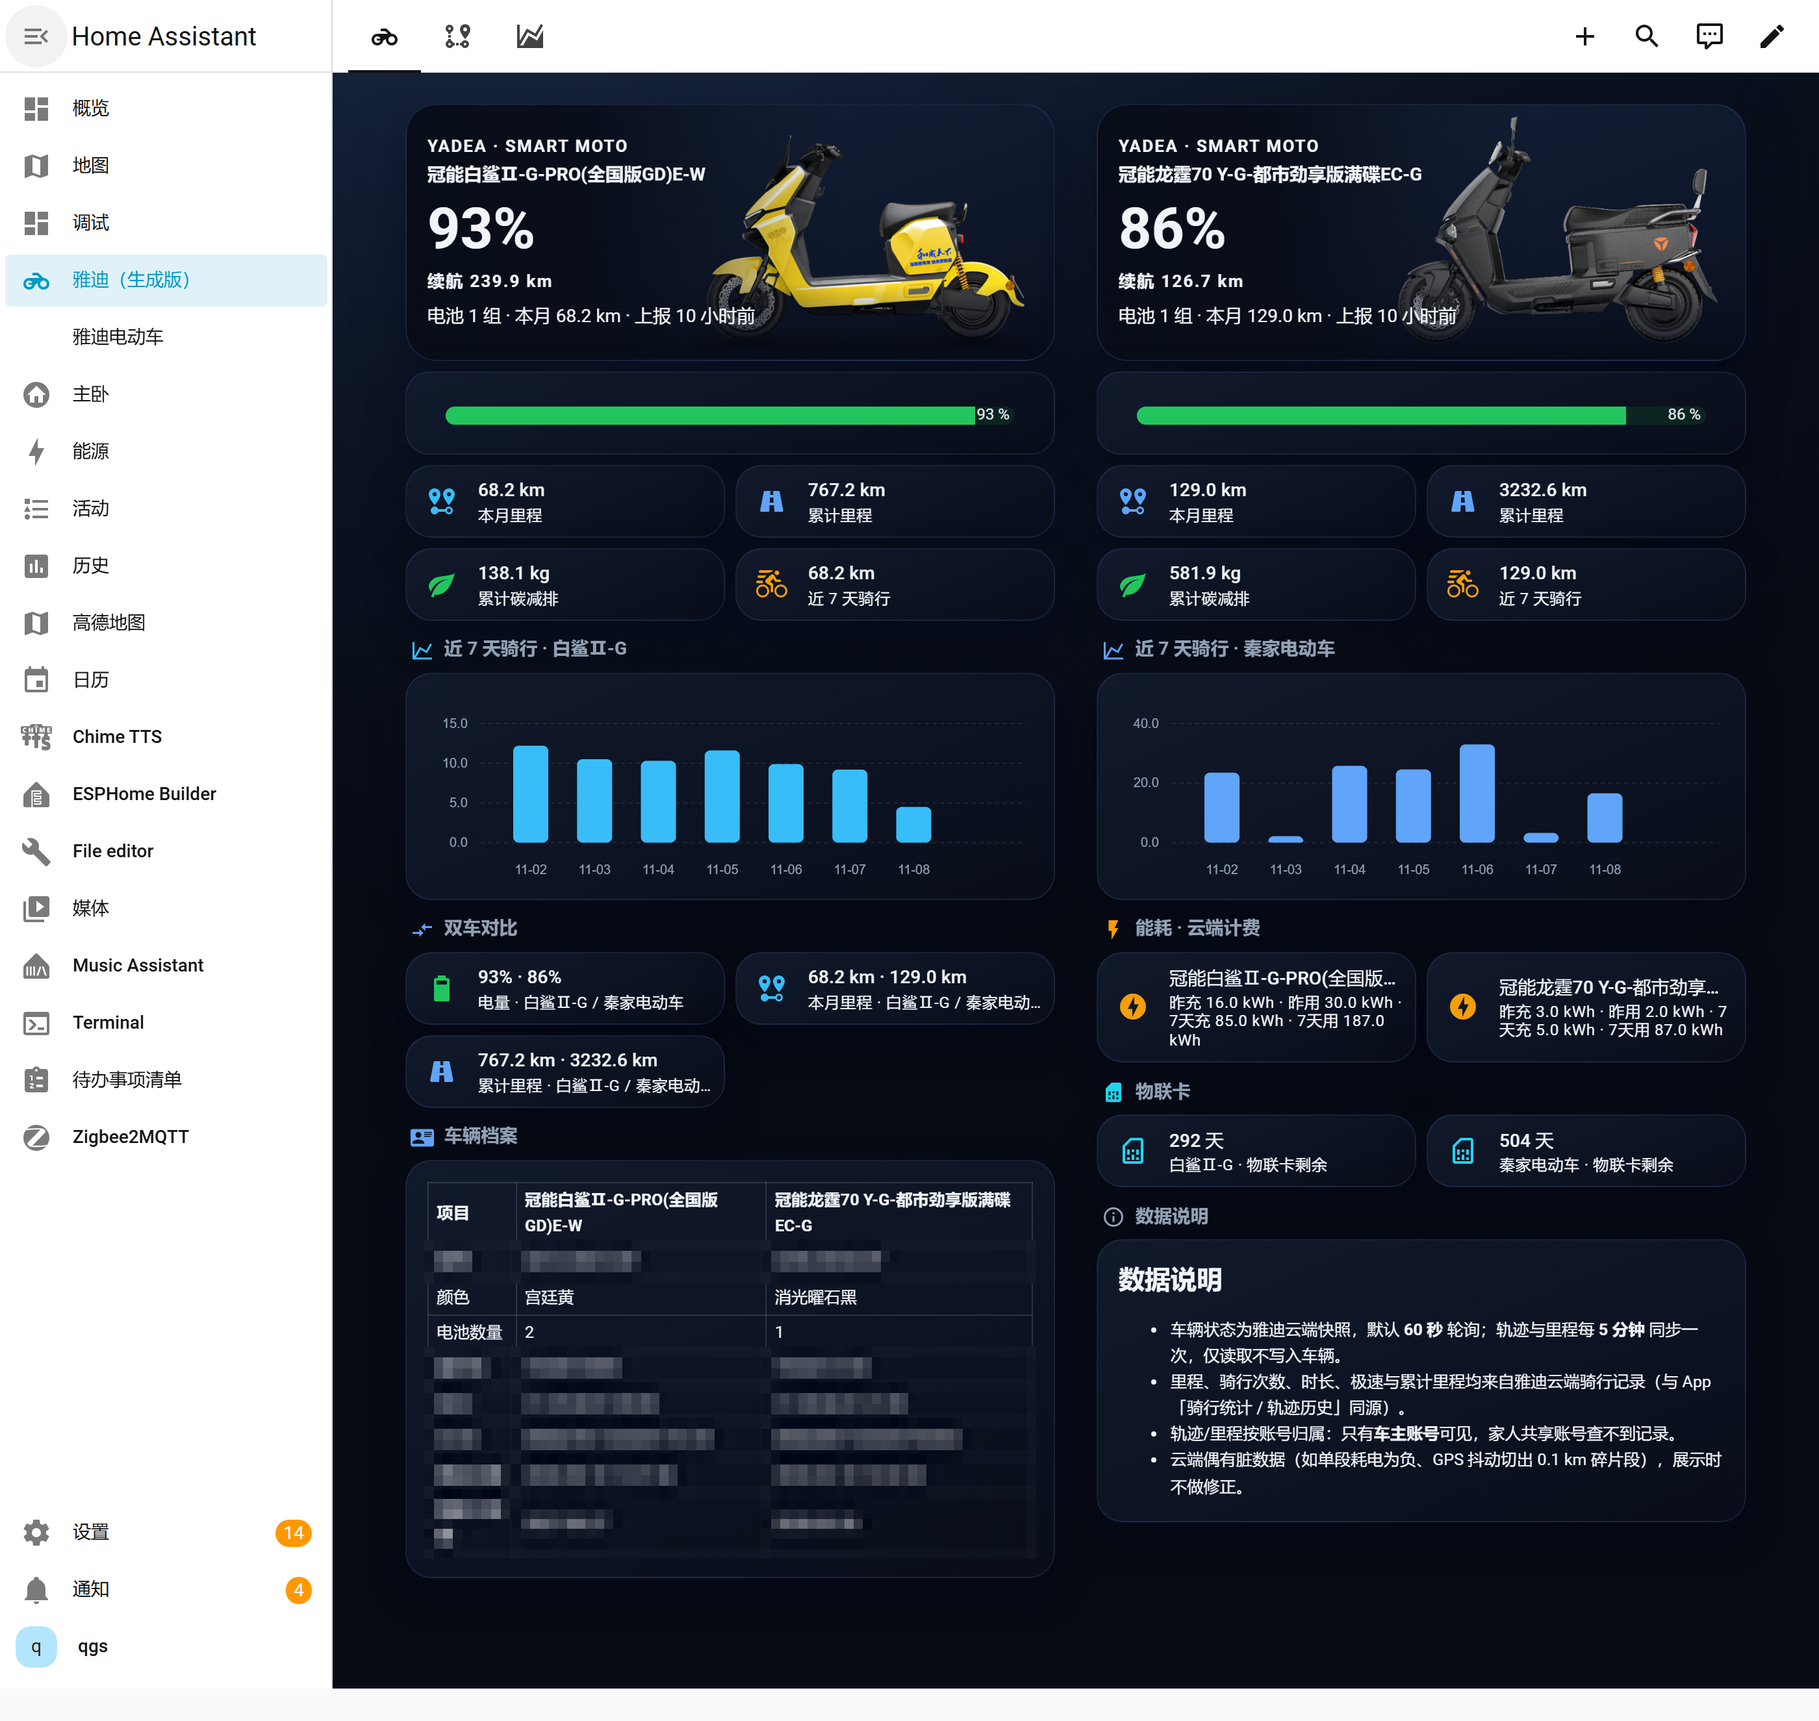
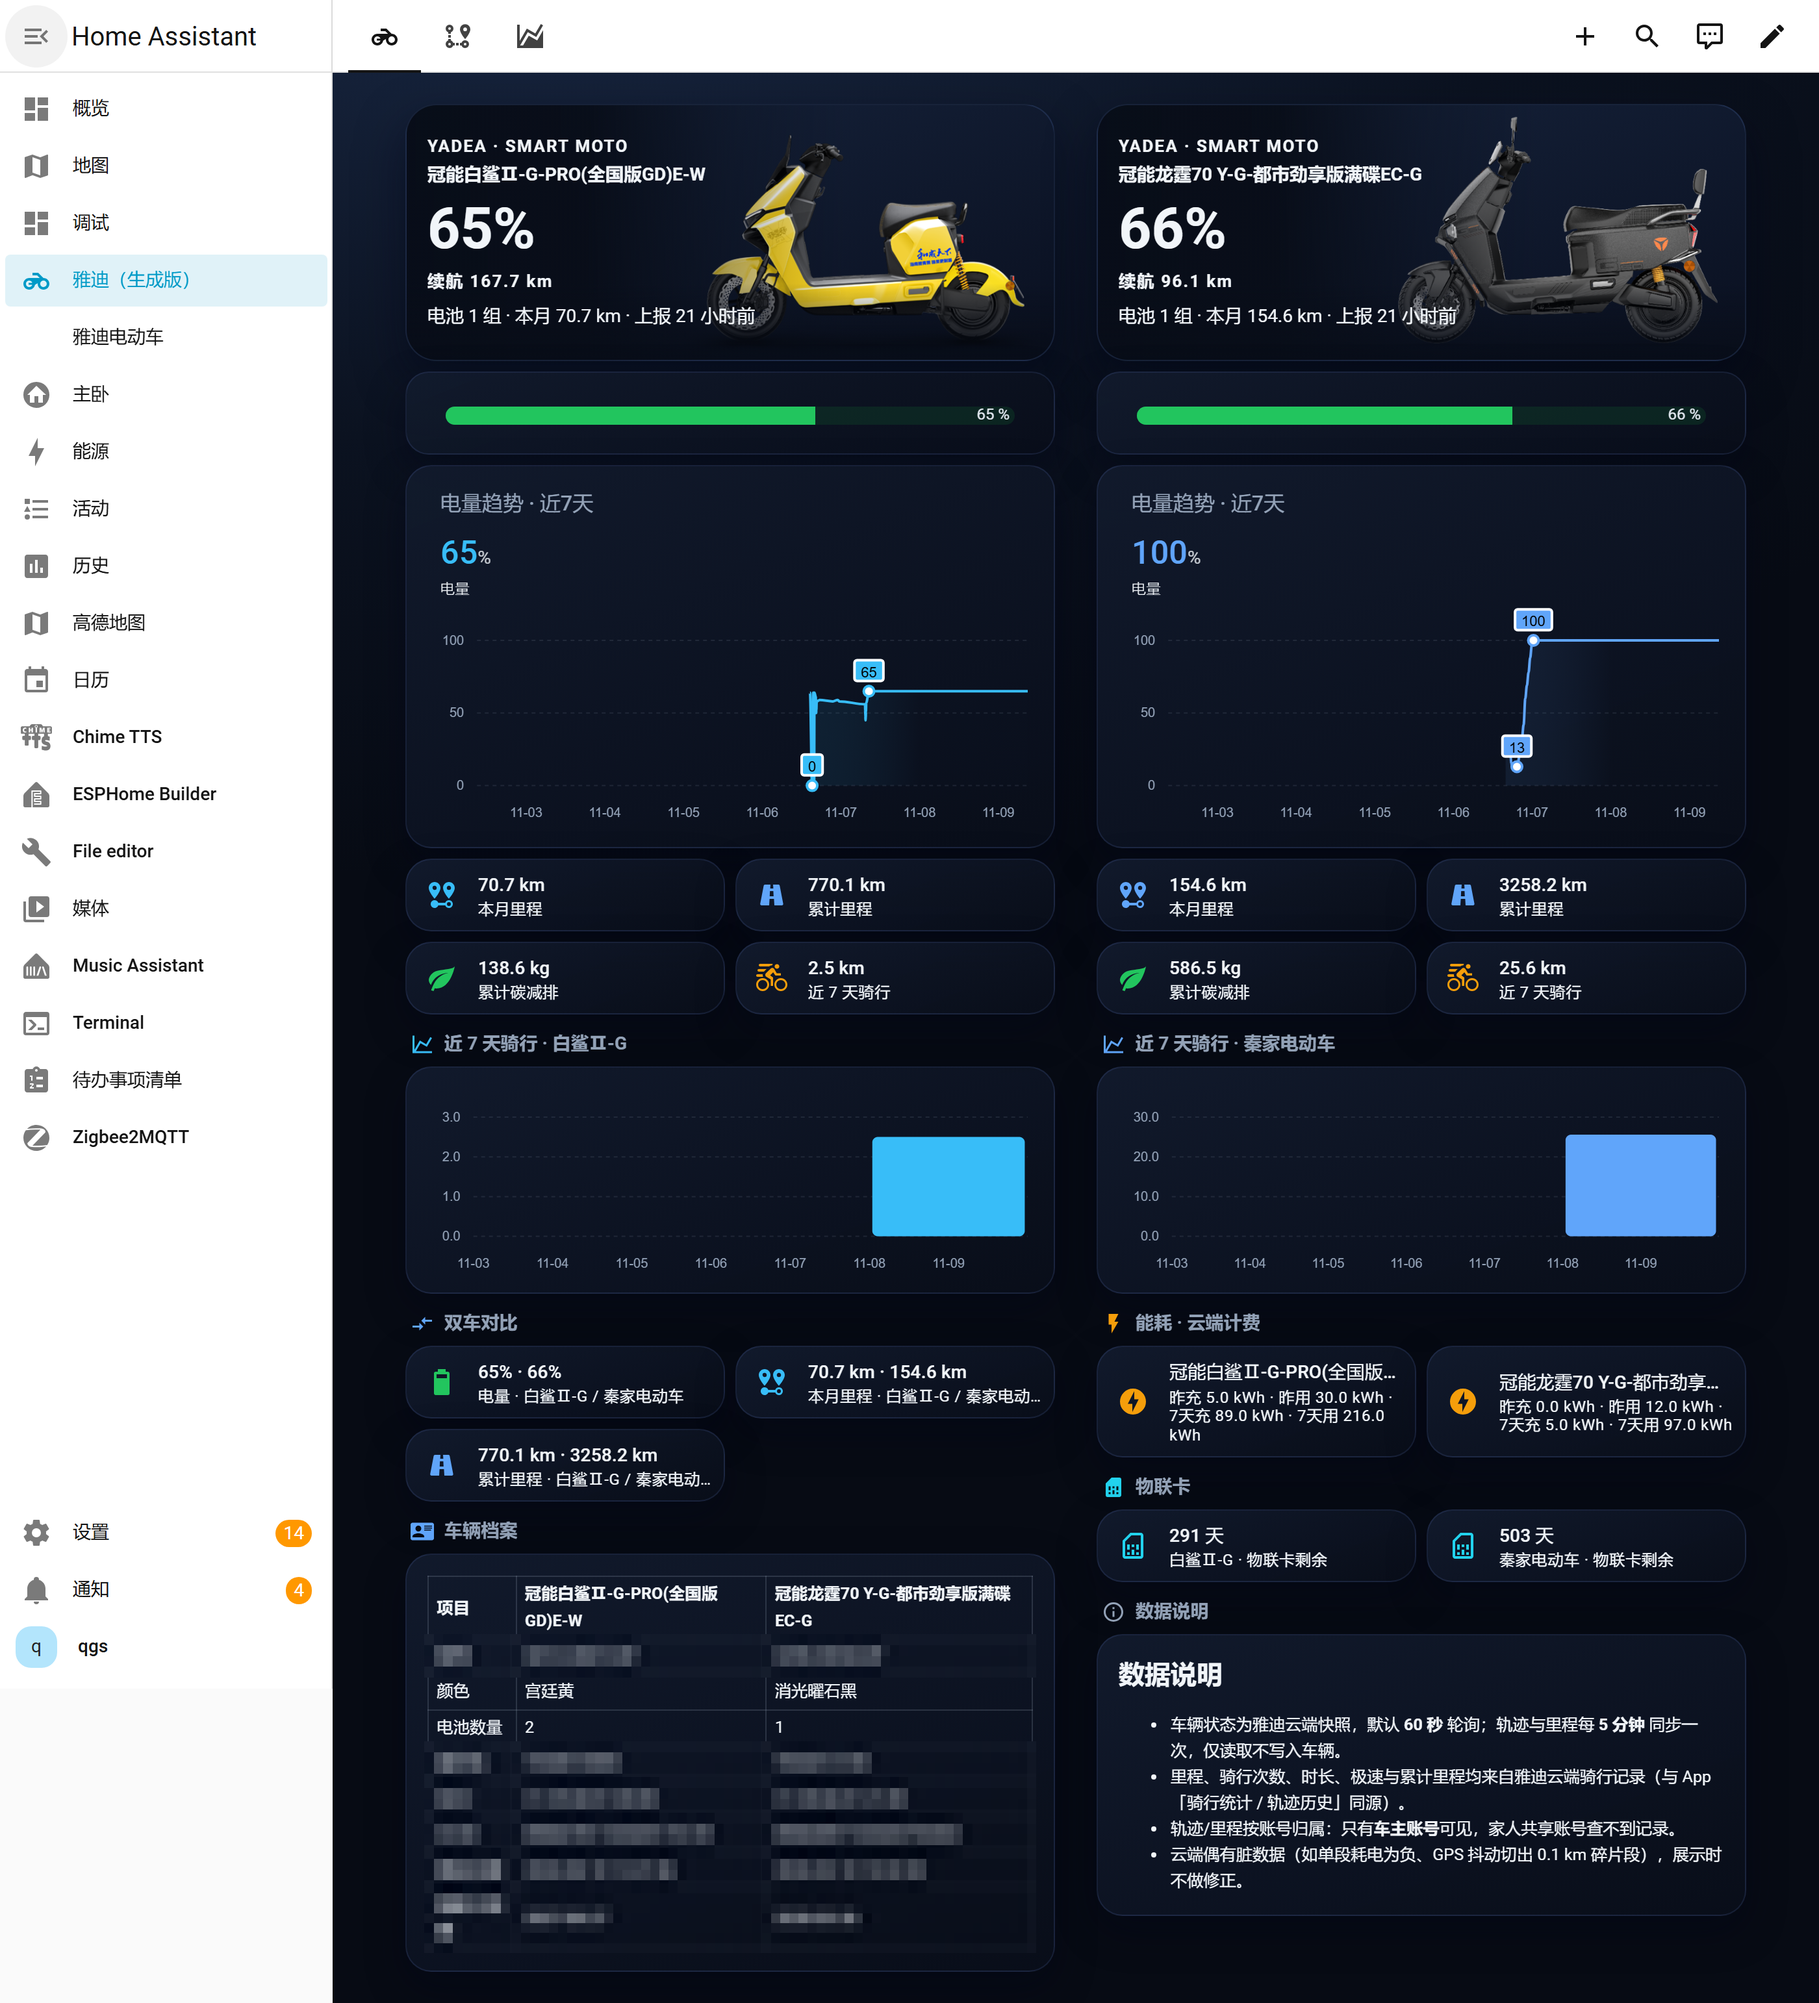
v1.0.5: 总览页新增「电量趋势 · 近7天」卡
- 每车一列在电量长条图后新增电量趋势卡：标题行内显示当前电量、
  面积渐变曲线、图上 Min/Max 极值标注（badge 样式）
- 策略生成时并行拉取各车电量历史（7→5→3→2→1 天起点逐级回退，
  规避 HA 2026.11 对早于 recorder 库内最早记录起点返回空的行为），
  数据点内嵌 data_generator，图表不依赖浏览器端历史接口
- 曲线颜色跟随车辆主题色；y 轴固定 0-100；无数据时显示累计提示
- 兼容性修正：apexcharts-card 2.2.3 的 header 不支持 title_align，
  yaxis labels.formatter 会导致整图不渲染（已移除）

diff --git a/dist/yadea-dashboard.js b/dist/yadea-dashboard.js
@@ -3,7 +3,7 @@
  *
  * 安装后无需手写 YAML：在「添加仪表盘 → 社区仪表盘」里选择本策略，
  * 会自动发现家中所有雅迪车辆（雅迪集成 v2.0.0+）并生成三套视图：
- *   1. 总览     —— 车辆实拍图头卡、电量长条图、本月/累计/减碳/近 7 天统计、
+ *   1. 总览     —— 车辆实拍图头卡、电量长条图、电量趋势(近7天)、本月/累计/减碳/近 7 天统计、
  *                  近 7 天柱状图、双车对比、能耗·云端计费、物联网卡、车辆档案对照、数据说明
  *   2. 骑行轨迹 —— 今日骑行大数字、近 14 天柱状图、最近路线、今日分段明细
  *   3. 能耗档案 —— 充电/耗电统计、车辆档案
@@ -13,7 +13,7 @@
  * 生成后可在仪表盘右上角「接管控制」转为可手动编辑的普通仪表盘。
  */
 
-const VERSION = "1.0.4";
+const VERSION = "1.0.5";
 const ACCENTS = ["#38bdf8", "#60a5fa", "#a78bfa", "#34d399", "#f472b6", "#facc15"];
 
 const BG =
@@ -466,6 +466,92 @@ function batteryBar(hass, v, hasBar) {
   };
 }
 
+/** 电量历史拉取：7 天起点可能早于 recorder 库内最早记录（HA 2026.11 对此直接返回空），
+ *  故逐级回退 7→5→3→2→1 天，取第一批有数据的窗口。 */
+async function fetchBatteryTrendPoints(hass, entityId) {
+  for (const days of [7, 5, 3, 2, 1]) {
+    try {
+      const start = new Date(Date.now() - days * 86400000).toISOString();
+      const res = await hass.callApi(
+        "GET",
+        `history/period/${start}?filter_entity_id=${entityId}&minimal_response&significant_changes_only=0`
+      );
+      const rows = (Array.isArray(res) && res[0]) || [];
+      const points = [];
+      for (const p of rows) {
+        const raw = p.state !== undefined ? p.state : p.s;
+        const value = Number(raw);
+        if (!Number.isFinite(value) || value < 0 || value > 100) continue;
+        const ts = p.last_changed || p.lu;
+        if (!ts) continue;
+        points.push([new Date(ts).getTime(), value]);
+      }
+      if (points.length > 1) return points;
+    } catch (err) {
+      /* 下一个窗口 */
+    }
+  }
+  return [];
+}
+
+/** 电量趋势 · 近7天：面积图 + 阈值变色 + Min/Max 极值标注（历史点由策略生成时内嵌） */
+function batteryTrend(hass, v, points) {
+  const id = eid(v, "battery");
+  if (!hasEntity(hass, id)) return null;
+  const series = [
+    {
+      entity: id,
+      type: "area",
+      name: "电量",
+      color: v.accent,
+      stroke_width: 2,
+      show: { extremas: true },
+      data_generator: `return ${JSON.stringify(points || [])};`,
+    },
+  ];
+  return {
+    type: "custom:apexcharts-card",
+    header: {
+      show: true,
+      title: "电量趋势 · 近7天",
+      show_states: true,
+      colorize_states: true,
+    },
+    graph_span: "7d",
+    update_interval: "10min",
+    show: { loading: false },
+    series,
+    apex_config: {
+      chart: { height: 170, foreColor: "#94a3b8", toolbar: { show: false } },
+      dataLabels: { enabled: false },
+      fill: {
+        type: "gradient",
+        gradient: { shadeIntensity: 0.4, opacityFrom: 0.4, opacityTo: 0.05 },
+      },
+      xaxis: {
+        labels: {
+          datetimeFormatter: { day: "MM-dd", month: "MM-dd" },
+          style: { fontSize: "10px" },
+        },
+        axisBorder: { show: false },
+        axisTicks: { show: false },
+      },
+      yaxis: { min: 0, max: 100, labels: { style: { fontSize: "10px" } } },
+      grid: {
+        borderColor: "rgba(148,163,184,0.14)",
+        yaxis: { lines: { show: true } },
+      },
+      tooltip: { theme: "dark" },
+      noData: {
+        text: "电量历史累计中 · 记录满后自动显示",
+        align: "center",
+        style: { color: "#94a3b8", fontSize: "13px" },
+      },
+    },
+    card_mod: { style: `${PRO_CARD_CSS}\nha-card { padding: 8px 10px 4px; }` },
+  };
+}
+
 function rideCard(hass, v) {
   if (!hasEntity(hass, eid(v, "last_ride"))) return null;
   return {
@@ -746,13 +832,14 @@ function noteUnit() {
 
 /* ------------------------------------------------------------------ 视图 */
 
-function overviewView(vehicles, hass, hasBar) {
-  // 每车一列：头图 → 电量条 → 统计四宫格 → 近 7 天柱状图
+function overviewView(vehicles, hass, hasBar, trends) {
+  // 每车一列：头图 → 电量条 → 电量趋势 → 统计四宫格 → 近 7 天柱状图
   const sections = vehicles.map((v) => ({
     type: "grid",
     cards: [
       heroCard(hass, v),
       batteryBar(hass, v, hasBar),
+      batteryTrend(hass, v, trends && trends[v.prefix]),
       statGrid(hass, v),
       hasEntity(hass, eid(v, "this_week_mileage"))
         ? headingCard(`近 7 天骑行 · ${v.name}`, "mdi:chart-line", v.accent)
@@ -873,7 +960,16 @@ class YadeaDashboardStrategy extends HTMLElement {
     }
 
     const hasBar = await detectBarCard();
-    const views = [overviewView(vehicles, hass, hasBar)];
+    const trends = {};
+    await Promise.all(
+      vehicles.map(async (v) => {
+        const id = eid(v, "battery");
+        if (hasEntity(hass, id)) {
+          trends[v.prefix] = await fetchBatteryTrendPoints(hass, id);
+        }
+      })
+    );
+    const views = [overviewView(vehicles, hass, hasBar, trends)];
     const hasTrack = vehicles.some((v) =>
       hasEntity(hass, eid(v, "today_mileage"))
     );

diff --git a/README.md b/README.md
@@ -9,7 +9,7 @@
 
 | 视图 | 内容 |
 |---|---|
-| 总览 | 车辆实拍图头卡、电量长条图、本月/累计/减碳/近 7 天统计、近 7 天柱状图、双车对比、能耗·云端计费、物联网卡剩余、车辆档案对照表、数据说明（与旗舰版布局一致） |
+| 总览 | 车辆实拍图头卡、电量长条图、电量趋势（近 7 天面积图）、本月/累计/减碳/近 7 天统计、近 7 天柱状图、双车对比、能耗·云端计费、物联网卡剩余、车辆档案对照表、数据说明（与旗舰版布局一致） |
 | 骑行轨迹 | 今日里程大数字、近 14 天柱状图、最近路线起终点、今日分段明细表 |
 | 能耗档案 | 昨日/7 天充电与耗电、车辆档案（型号/电池/物联网卡） |
 
@@ -61,10 +61,10 @@ strategy:
 1. **强制刷新页面**（Ctrl+F5；手机 App 在设置里清除前端缓存或杀掉重开）
 2. 若装在 `config/www/community/yadea-dashboard/`，确认资源 URL 带版本号：
    「设置 → 仪表盘 → 资源」中把该资源的 URL 改为
-   `/local/community/yadea-dashboard/yadea-dashboard.js?v=1.0.4`（版本号随更新递增）
+   `/local/community/yadea-dashboard/yadea-dashboard.js?v=1.0.5`（版本号随更新递增）
 3. 仍不行时重启 HA，再刷新浏览器
 
-模块加载成功后，浏览器控制台会输出 `YADEA-DASHBOARD v1.0.4`，可据此确认版本。
+模块加载成功后，浏览器控制台会输出 `YADEA-DASHBOARD v1.0.5`，可据此确认版本。
 
 ## 里程/轨迹数据说明
 
